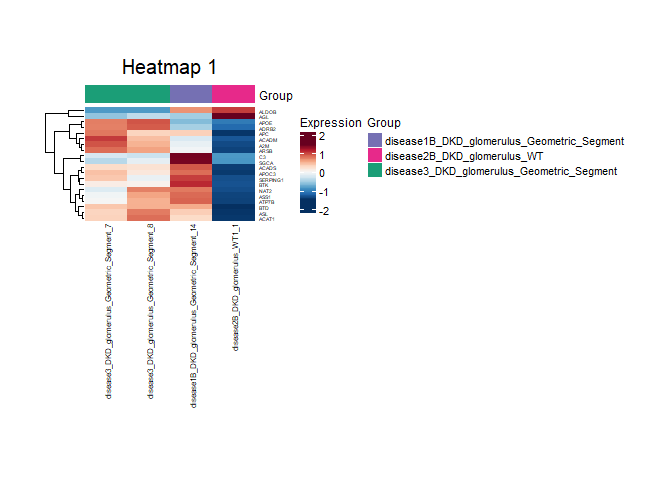
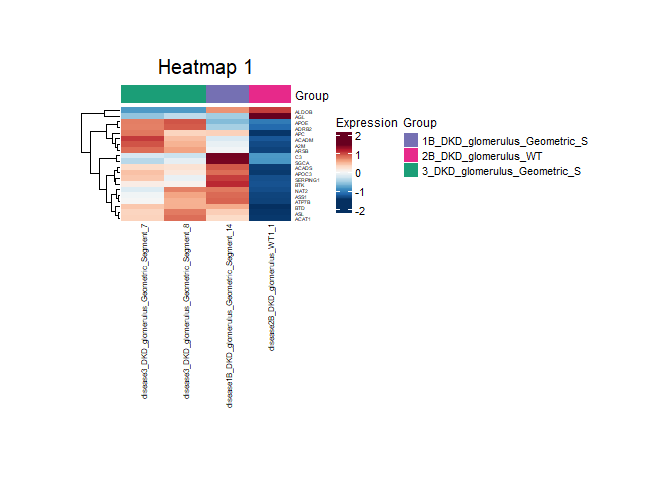
more size appropriate heatmap example

Changed region(s): [[0.0938, 0.125, 0.9375, 0.8438]]

diff --git a/README.md b/README.md
@@ -403,7 +403,7 @@ or alternatively be produced within R as shown below.
 
 ``` r
 # set a list of the groups (names should be contained within the sample names)
-groups <- c("disease3_DKD_glomerulus_Geometric_Segment", "disease1B_DKD_glomerulus_Geometric_Segment", "disease2B_DKD_glomerulus_WT")
+groups <- c("3_DKD_glomerulus_Geometric_S", "1B_DKD_glomerulus_Geometric_S", "2B_DKD_glomerulus_WT")
 
 # get the sample names from the used data set
 sample_names <- c(colnames(scaled_counts))
@@ -425,18 +425,17 @@ all(colnames(scaled_counts) == rownames(sample_metadata))
 #> [1] TRUE
 
 # set a list with the Groups and choose colors for them
-group_colors <- list(Group = c("disease3_DKD_glomerulus_Geometric_Segment" = "#1b9e77", "disease1B_DKD_glomerulus_Geometric_Segment" = "#7570b3", "disease2B_DKD_glomerulus_WT" = "#e7298a"))
+group_colors <- list(Group = c("3_DKD_glomerulus_Geometric_S" = "#1b9e77", "1B_DKD_glomerulus_Geometric_S" = "#7570b3", "2B_DKD_glomerulus_WT" = "#e7298a"))
 
 names(group_colors$Group)
-#> [1] "disease3_DKD_glomerulus_Geometric_Segment" 
-#> [2] "disease1B_DKD_glomerulus_Geometric_Segment"
-#> [3] "disease2B_DKD_glomerulus_WT"
+#> [1] "3_DKD_glomerulus_Geometric_S"  "1B_DKD_glomerulus_Geometric_S"
+#> [3] "2B_DKD_glomerulus_WT"
 print(sample_metadata)
-#>                                                                                    Group
-#> disease3_DKD_glomerulus_Geometric_Segment_7    disease3_DKD_glomerulus_Geometric_Segment
-#> disease3_DKD_glomerulus_Geometric_Segment_8    disease3_DKD_glomerulus_Geometric_Segment
-#> disease1B_DKD_glomerulus_Geometric_Segment_14 disease1B_DKD_glomerulus_Geometric_Segment
-#> disease2B_DKD_glomerulus_WT1_1                               disease2B_DKD_glomerulus_WT
+#>                                                                       Group
+#> disease3_DKD_glomerulus_Geometric_Segment_7    3_DKD_glomerulus_Geometric_S
+#> disease3_DKD_glomerulus_Geometric_Segment_8    3_DKD_glomerulus_Geometric_S
+#> disease1B_DKD_glomerulus_Geometric_Segment_14 1B_DKD_glomerulus_Geometric_S
+#> disease2B_DKD_glomerulus_WT1_1                         2B_DKD_glomerulus_WT
 ```
 
 The heatmap parameters can then be changed to generate a more advanced
@@ -503,24 +502,24 @@ sample_metadata <- sample_metadata                               # dataframe con
 annotation_colors <- group_colors                     # list containing the column groups and the choosen colors for the column annotation per group, default = NULL
 annotation_name_side = "right"                        # optional change: side of annotation name, default = "right"
 show_row_names <- FALSE                               # optional change: show of rownames on = TRUE & off = FALSE, default = FALSE
-show_column_names = TRUE                              # optional change: show of column names on = TRUE & off = FALSE, default = TRUE
+show_column_names = FALSE                              # optional change: show of column names on = TRUE & off = FALSE, default = TRUE
 row_annotation = TRUE                                # optional row annotation, default = FALSE
 row_annotation_method = "auto"                        # set if row_annotation = TRUE: options are "auto" & "specific", default = "auto"
 row_anno_names = NULL                                 # set if row_annotation = TRUE & row_annotation_method = "specific: input list of specific genes for the row annotation, default = NULL
 row_anno_number = 5                                   # optional change: number of automatic row annotations per cluster, default = 5
 fontsize_title = 15                                   # optional change: fontsize the heatmap title, default = 15
-fontsize_rowAnnotation = 6                            # optional change: fontsize of the optional row annotation, default = 8
+fontsize_rowAnnotation = 8                            # optional change: fontsize of the optional row annotation, default = 8
 fontsize_columnNames = 6                              # optional change: fontsize of the optional column names, default = 6
 fontsize_rowNames = 4                                 # optional change: fontsize of the optional row names, default = 4
-fontsize_cluster_labels = 6                           # optional change: fontsize of the cluster labels, default = 8
+fontsize_cluster_labels = 12                           # optional change: fontsize of the cluster labels, default = 8
 fontsize_group_annotation = 10                         # optional change: font size of the group annotation title, default = 8.
-fontsize_group_annotation_legend = 8                 # optional change: fontsize of optional group annotation legend title, default = 10
-fontsize_group_annotation_labels = 6                  # optional change: fontsize of optional group annotation legend labels, default = 8
-fontsize_heatmap_legend = 8                           # optional change: fontsize of heatmap legend, default = 10
-fontsize_heatmap_legend_labels = 6                    # optional change: fontsize of heatmap legend labels, default = 8
+fontsize_group_annotation_legend = 10                 # optional change: fontsize of optional group annotation legend title, default = 10
+fontsize_group_annotation_labels = 8                  # optional change: fontsize of optional group annotation legend labels, default = 8
+fontsize_heatmap_legend = 10                           # optional change: fontsize of heatmap legend, default = 10
+fontsize_heatmap_legend_labels = 8                    # optional change: fontsize of heatmap legend labels, default = 8
 title_heatmapLegend = "Expression"                    # changeable title of the legend, default "Expression"
-WidthNum = 4.5                                        # optional change of heatmap width, default = 4.5
-HeightNum = 3                                         # optional change of heatmap height, default = 3
+WidthNum = 5                                        # optional change of heatmap width, default = 4.5
+HeightNum = 7                                         # optional change of heatmap height, default = 3
 UnitSize = "cm"                                       # optional change of heatmap unit for sizes, default = "cm"
 
 hm <- adv_Heatmap(ncounts_matrix, seed = seed, column_name = column_name, colorPalette = colorPalette, cluster_method = cluster_method, cluster_rows = cluster_rows, cluster_columns = cluster_columns, k_row = k_row, k_col = k_col, sample_metadata = sample_metadata, annotation_colors = annotation_colors, annotation_name_side = annotation_name_side, show_row_names = show_row_names, show_column_names = show_column_names, row_annotation = row_annotation, row_annotation_method = row_annotation_method, row_anno_names = row_anno_names ,row_anno_number = row_anno_number, fontsize_title = fontsize_title, fontsize_rowAnnotation = fontsize_rowAnnotation, fontsize_columnNames = fontsize_columnNames, fontsize_rowNames = fontsize_rowNames, fontsize_cluster_labels = fontsize_cluster_labels, fontsize_group_annotation = fontsize_group_annotation, fontsize_group_annotation_legend = fontsize_group_annotation_legend, fontsize_group_annotation_labels = fontsize_group_annotation_labels, fontsize_heatmap_legend = fontsize_heatmap_legend, fontsize_heatmap_legend_labels = fontsize_heatmap_legend_labels, title_heatmapLegend = title_heatmapLegend, WidthNum = WidthNum, HeightNum = HeightNum, UnitSize = UnitSize)
